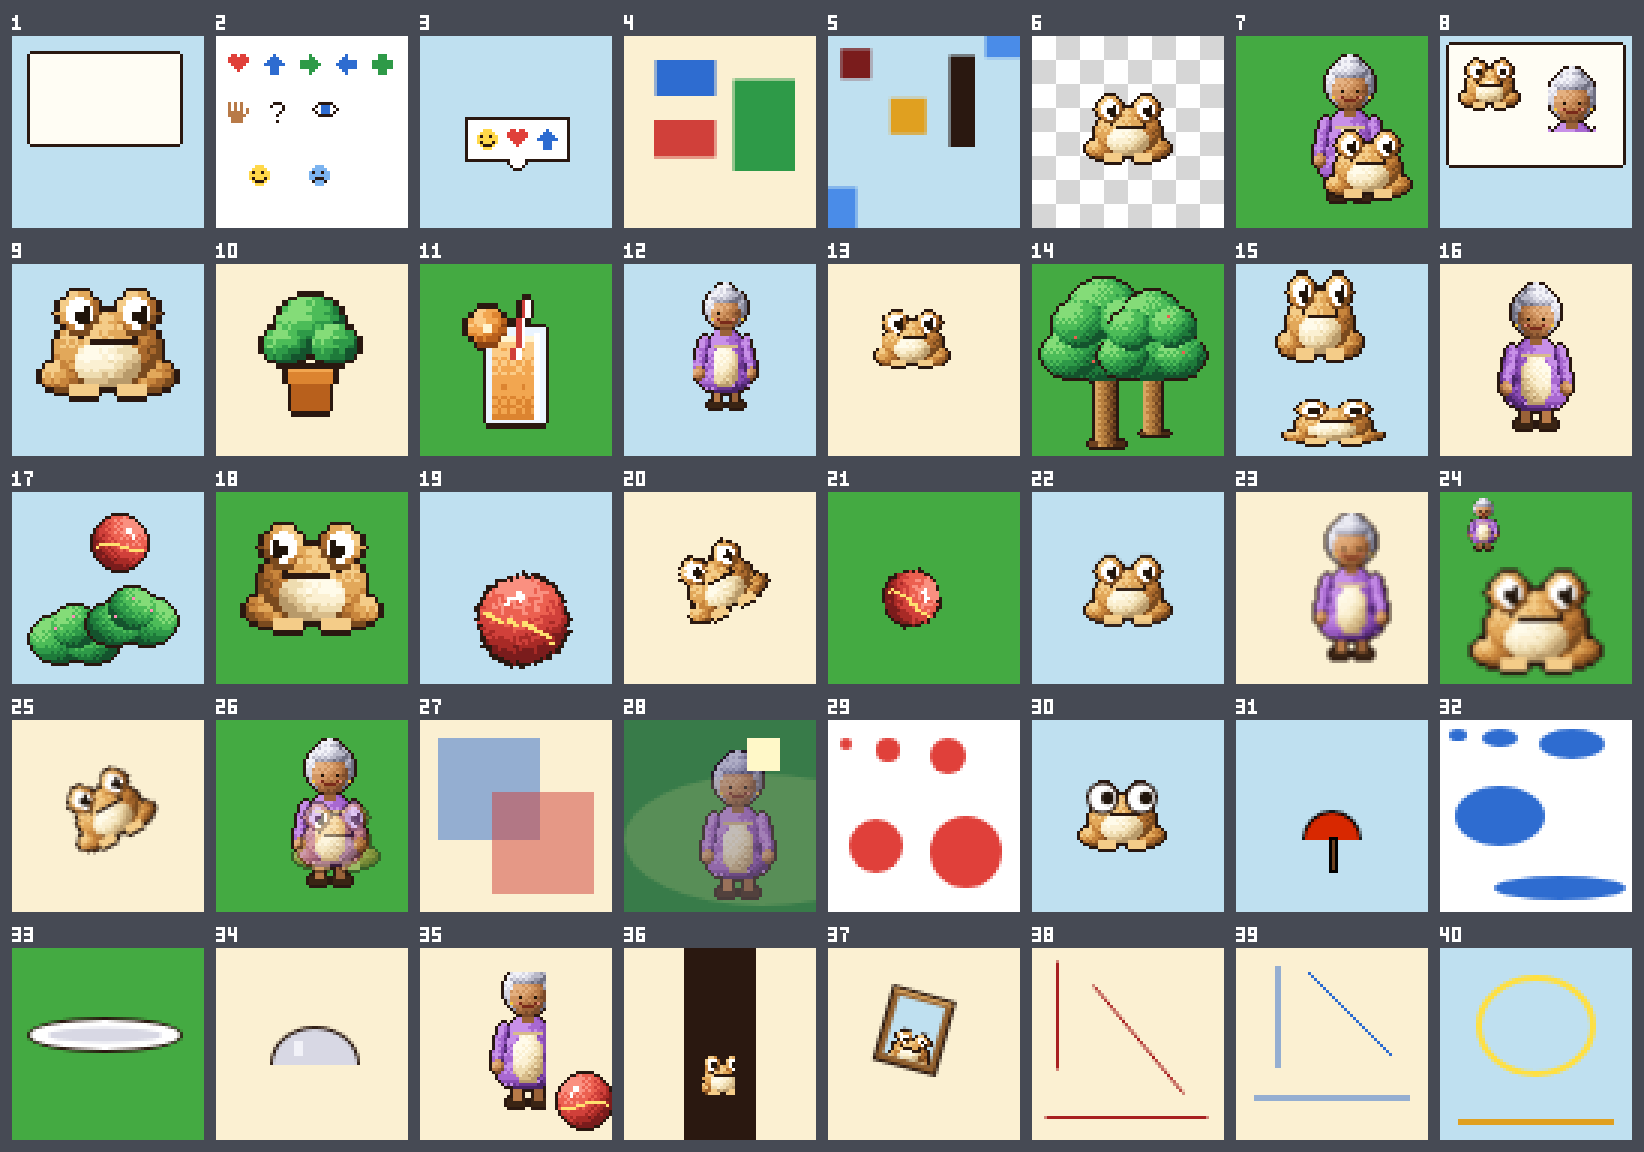
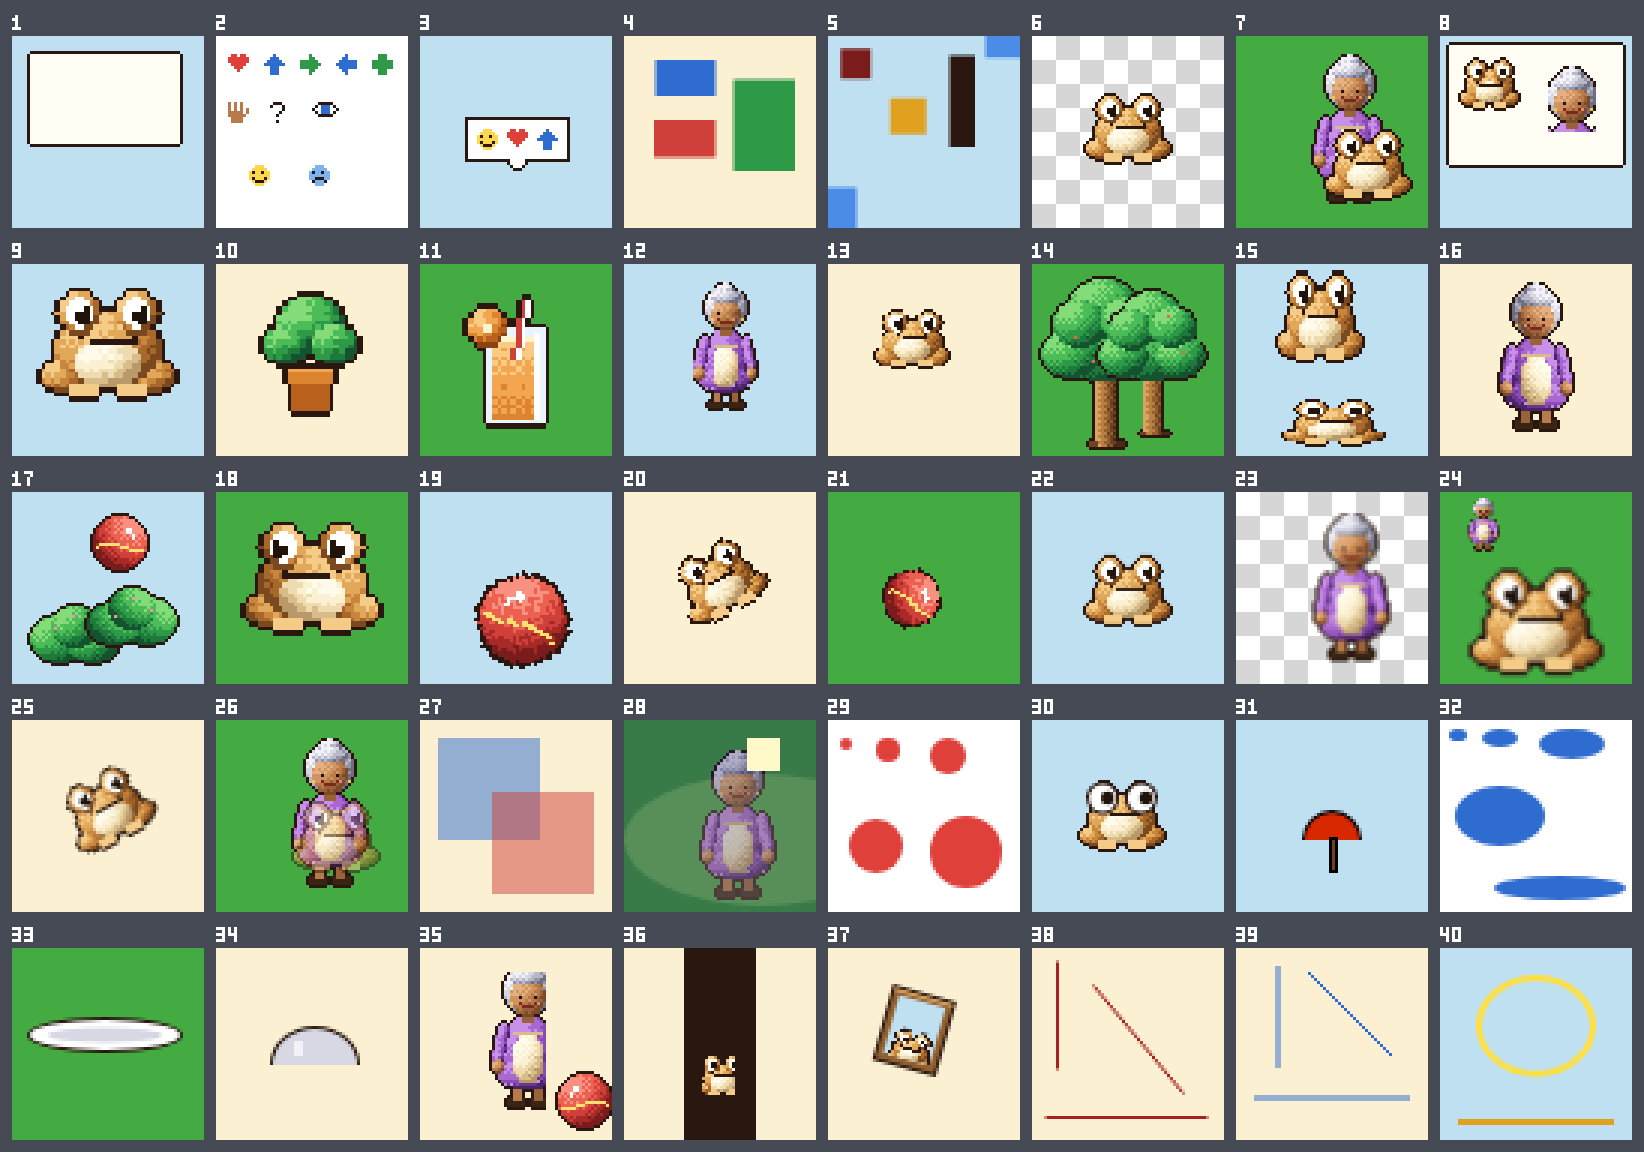
ref/ctx: case 23 on a transparent tile; README note on alpha
Claude-Session: https://claude.ai/code/session_01XaggvvU5SXHEvuKSPNh3qh

Changed region(s): [[0.7445, 0.4062, 0.8686, 0.5938]]

diff --git a/coqui/tool/ref/ctx/sheet.html b/coqui/tool/ref/ctx/sheet.html
@@ -156,7 +156,7 @@ add({ kind: 'drawImage-rotate-0.5', title: 'flipped and rotated: scale(-1, 1), r
 add({ kind: 'drawImage-smoothing', title: 'the frog mid-hop: y = 24 - 7 sin(pi/5) = 19.886, smoothing on (the scene canvas default)', smoothing: true, bg: SKY,
   refs: [['historia/juego.js', 'q.dy=-7*Math.sin(Math.PI*i/n)', 'the hop'], ['historia/escenas/banco.js', 'g.drawImage(spr("cq"+q.s+"_"+bl+op,()=>mkCoqui(q.s,bl,op)),b.x,b.y+dy)', 'drawn at b.y + dy']],
   run(c) { c.drawImage(S.coqui, 16, 24 + -7 * Math.sin(Math.PI * 1 / 5)); } });
-add({ kind: 'drawImage-smoothing', title: 'half-pixel position, both axes, smoothing on', smoothing: true, bg: CREAM,
+add({ kind: 'drawImage-smoothing', title: 'half-pixel position, both axes, smoothing on, on a transparent tile (edges come out partly transparent)', smoothing: true, bg: null,
   refs: [],
   run(c) { c.drawImage(S.abuela, 8.5, 6.5); } });
 add({ kind: 'drawImage-smoothing', title: 'smoothing on: abuela down to 20 x 18, the frog up by 1.5 (the blur of "borroso")', smoothing: true, bg: GRASS,

diff --git a/coqui/tool/ref/ctx/README.md b/coqui/tool/ref/ctx/README.md
@@ -31,7 +31,7 @@ A second run gives byte-identical files. `make.js` renders the sheet twice in tw
 - The context is wrapped in a recorder. Every method call and every property set is logged as it is made, then done. So `ops` is what the browser ran, not what someone meant it to run. A call or property that `Ctx` does not have (for example `setLineDash`, `getImageData`) stops the run.
 - Colours are written as the code wrote them (`"#2A1810"`, `"rgba(30,24,90,.32)"`) with the bytes the canvas turns them into: `[r, g, b, a8]`, `a8 = round(alpha * 255)` (checked in Chrome: `.32` gives 82, `.16` gives 41, `.5` gives 128).
 - `drawImage` with three or five arguments is the op `drawImage`; with nine, `drawImageRect`. The image is a key of `sources`.
-- Parameters are taken from real calls in `historia/` where there is one (`refs` names the line, found by its text; `check.js` fails if the old file's line has changed). Cases 4 (half positions, partly), 5 and 23 follow the order's list and have no matching call.
+- Parameters are taken from real calls in `historia/` where there is one (`refs` names the line, found by its text; `check.js` fails if the old file's line has changed). Cases 5 and 23 follow the order's list and have no matching call; case 4 is the nearest (an ellipse at fractional centre).
 
 ## The kinds
 
@@ -59,6 +59,6 @@ A second run gives byte-identical files. `make.js` renders the sheet twice in tw
 
 - The browser's default for `imageSmoothingEnabled` is `true`, and the old scene context `c` (juego.js line 12) is never set to `false` for the whole frame: only `dc` is (juego.js line 74), and a few scene functions set `c` to `false` and leave it. So a sprite drawn at a fractional position in the old game is bilinear. Cases 22 to 25 are drawn with smoothing on for that reason. Every other case has smoothing off, as the order says.
 - An `arc` or `ellipse` with a sweep of 2 pi or more (the old code writes `7`) is a full circle. `arc(x, y, r, Math.PI, 0)` goes clockwise from pi to 0: the upper half.
-- A tile is straight (not premultiplied) alpha; the canvas stores premultiplied, so a translucent pixel over a transparent tile can come back a step off in its colour channels (cases 6 and 26 to 28 show it where it matters).
+- A tile is straight (not premultiplied) alpha, as `getImageData` returns it. Only cases 6 and 23 start on a transparent tile and keep transparent pixels (case 23 has partly transparent edges: the canvas stores premultiplied, so their colour channels can be a step off what a straight-alpha blend gives). The other 38 tiles are fully opaque.
 - `cases.json` names the Chrome that drew it (`browser`). Another Chrome can differ at the edge of antialiased shapes.
 - `lib.js` (PNG writer, SHA-256, index) is the same file in `ref/pp/` and `ref/sprites/`.

diff --git a/coqui/ref/ctx/cases.md b/coqui/ref/ctx/cases.md
@@ -26,7 +26,7 @@ Made by `coqui/tool/ref/ctx/make.js`. Each case is a 64 x 64 tile; `cases.json` 
 | 20 | drawImage-rotate-0.5 | the frog pulled off his feet: rotate(-.5) about his middle, drawn from -w/2, -h/2 | escenas/camino.js:89 |
 | 21 | drawImage-rotate-0.5 | flipped and rotated: scale(-1, 1), rotate(-.5) | escenas/lago.js:100 |
 | 22 | drawImage-smoothing | the frog mid-hop: y = 24 - 7 sin(pi/5) = 19.886, smoothing on (the scene canvas default) | juego.js:156, escenas/banco.js:166 |
-| 23 | drawImage-smoothing | half-pixel position, both axes, smoothing on | synthetic (the order's list) |
+| 23 | drawImage-smoothing | half-pixel position, both axes, smoothing on, on a transparent tile (edges come out partly transparent) | synthetic (the order's list) |
 | 24 | drawImage-smoothing | smoothing on: abuela down to 20 x 18, the frog up by 1.5 (the blur of "borroso") | escenas/sala.js:120, escenas/sala.js:137 |
 | 25 | drawImage-smoothing | the frog pulled off his feet, rotate(-.5), smoothing on (same call as the rotate case, other setting) | escenas/camino.js:89 |
 | 26 | globalAlpha-0.5 | the frog at globalAlpha .5 over abuela | escenas/banco.js:166 |
